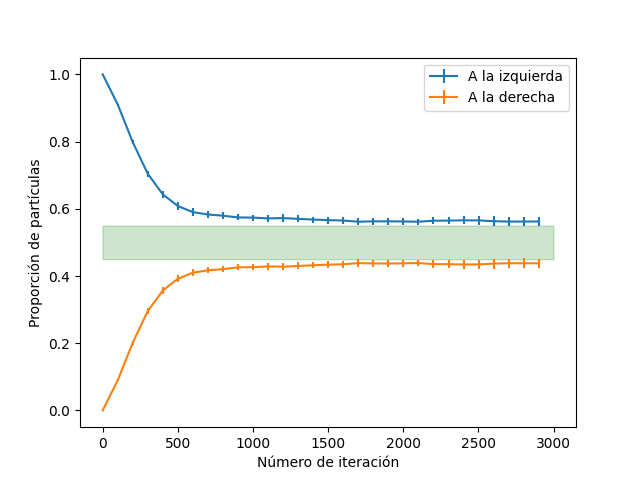
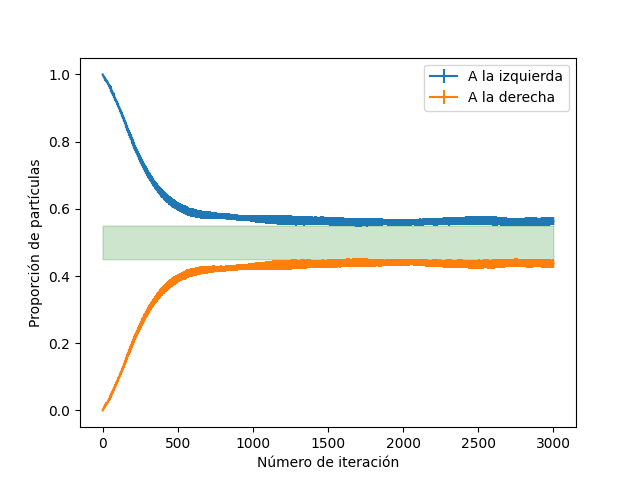
Changing equilibrium condition and particleVsTime graphs

diff --git a/tp2/out/particleNumberVariableWithErrorFirtsInEquilibrium.py b/tp2/out/particleNumberVariableWithErrorFirtsInEquilibrium.py
@@ -1,0 +1,36 @@
+import matplotlib.pyplot as plt
+import numpy as np
+import pandas as pd
+from pathlib import Path
+epsilon = 0.05
+particle_equilibrium_map = {}
+
+
+if __name__ == '__main__':
+    path = r'/home/shadad/Desktop/tp2pod/simulacion-de-sistemas/tp2/out'
+    for particle_number in [2000, 3000, 4000, 5000, 6000, 7000, 8000, 9000]:
+        particle_interval_upper = (particle_number / 2) + (particle_number * epsilon)
+        particle_interval_lower = (particle_number / 2) - (particle_number * epsilon)
+        regex = 'outputThirdLap_d50_n' + str(particle_number) + '_i*_aggregate.csv'
+        files = Path(path).glob(regex)
+        particle_equilibrium_map[particle_number] = []
+        for f in files:
+            dfs = pd.read_csv(f)
+            index = 0
+            for m in dfs["left_particle"]:
+                if particle_interval_upper >= float(m) >= particle_interval_lower:
+                    break
+                index += 1
+            particle_equilibrium_map[particle_number].append(index)
+    average = {}
+    for key, value in particle_equilibrium_map.items():
+        average[key] = np.mean(value), np.std(value)
+    gaps = list(average.keys())
+    equilibrium_index = list(average.values())
+    plt.errorbar(gaps, [v[0] for v in equilibrium_index], yerr=[[v[1] for v in equilibrium_index]], fmt='o', capsize=5)
+    plt.xlabel('Número inicial de particulas')
+    plt.ylabel('Número de iteraciones hasta equilibrio')
+    plt.yticks(np.arange(0, 3600, 300))
+    plt.savefig("VaryingNVsTimeWithErrorBarFirstInEquilibrium.PNG")
+
+

diff --git a/tp2/out/variableGapWithErrorBarFirstEquilibrium.py b/tp2/out/variableGapWithErrorBarFirstEquilibrium.py
@@ -1,0 +1,37 @@
+import matplotlib.pyplot as plt
+import numpy as np
+import pandas as pd
+from pathlib import Path
+epsilon = 0.05
+particle_number = 5000
+particle_interval_upper = (particle_number / 2) + (particle_number * epsilon)
+particle_interval_lower = (particle_number / 2) - (particle_number * epsilon)
+consecutive_equilibrium = 500
+gap_equilibrium_map = {}
+
+
+if __name__ == '__main__':
+    path = r'/home/shadad/Desktop/tp2pod/simulacion-de-sistemas/tp2/out'
+    for gap in [25, 50, 75, 100, 125, 150, 175, 200]:
+        regex = 'outputSecondLap_d' + str(gap) + '_n5000_i*_aggregate.csv'
+        files = Path(path).glob(regex)
+        gap_equilibrium_map[gap] = []
+        for f in files:
+            dfs = pd.read_csv(f)
+            index = 0
+            for m in dfs["left_particle"]:
+                if particle_interval_upper >= float(m) >= particle_interval_lower:
+                    break
+                index += 1
+            gap_equilibrium_map[gap].append(index)
+    average = {}
+    for key, value in gap_equilibrium_map.items():
+        average[key] = np.mean(value), np.std(value)
+    gaps = list(average.keys())
+    equilibrium_index = list(average.values())
+    plt.errorbar(gaps, [v[0] for v in equilibrium_index], yerr=[[v[1] for v in equilibrium_index]], fmt='o', capsize=5)
+    plt.xlabel('Tamaño del tabique (Cantidad de celdas)')
+    plt.ylabel('Numero de iteraciones hasta equilibrio')
+    plt.savefig("GapVsTimeWithErrorBarFirstEquilibrium.PNG")
+
+

diff --git a/tp2/out/FixedParticleVsTimeNVary.py b/tp2/out/FixedParticleVsTimeNVary.py
@@ -1,0 +1,37 @@
+import matplotlib.pyplot as plt
+import pandas as pd
+from pathlib import Path
+import numpy as np
+epsilon = 0.05
+
+
+if __name__ == '__main__':
+    current_index = 0
+    # equilibrium_point = [3000, 558, 466, 446, 436, 428, 424, 422]
+    path = r'/home/shadad/Desktop/tp2pod/simulacion-de-sistemas/tp2/out'
+    for particle_number in [2000, 3000, 4000, 5000, 6000, 7000, 8000, 9000]:
+        regex = 'outputThirdLap_d50_n' + str(particle_number) + '_i0_aggregate.csv'
+        files = Path(path).glob(regex)
+
+        upper = []
+        lower = []
+        for i in range(3000):
+            upper.append(0.5 + epsilon)
+            lower.append(0.5 - epsilon)
+
+        dfs = [pd.read_csv(f) for f in files]
+        df = dfs[0]
+        df_ratio = df / particle_number
+        df_ratio["left_particle"].plot(label="A la izquierda")
+        df_ratio["right_particle"].plot(label="A la derecha")
+
+        plt.xlabel('Número de iteración')
+        plt.xlim(0, 3000)
+        plt.xticks(np.arange(0, 3000, 300))
+        plt.ylabel('Proporción de partículas')
+        plt.fill_between([i for i in range(3000)], lower, upper, color='green', alpha=0.2)
+        # plt.axvline(x=equilibrium_point[current_index], linestyle='dashed', label='Iteración de equilibrio')
+        plt.legend()
+        plt.savefig("./plots/FixedThirdTimeRatioN_"+str(particle_number) + '.png')
+        plt.clf()
+        current_index += 1

diff --git a/tp2/out/FixedParticleVsTimeGapVary.py b/tp2/out/FixedParticleVsTimeGapVary.py
@@ -1,0 +1,38 @@
+import matplotlib.pyplot as plt
+import pandas as pd
+from pathlib import Path
+import numpy as np
+epsilon = 0.05
+particle_number = 5000
+
+
+if __name__ == '__main__':
+    current_index = 0
+    path = r'/home/shadad/Desktop/tp2pod/simulacion-de-sistemas/tp2/out'
+    for gap in [25, 50, 75, 100, 125, 150, 175, 200]:
+        regex = 'outputSecondLap_d' + str(gap) + '_n5000_i0_aggregate.csv'
+        files = Path(path).glob(regex)
+
+        upper = []
+        lower = []
+        for i in range(3000):
+            upper.append(0.5 + epsilon)
+            lower.append(0.5 - epsilon)
+
+        dfs = [pd.read_csv(f) for f in files]
+        df = dfs[0]
+        total = df["left_particle"] + df["right_particle"]
+        df_ratio = df / particle_number
+        df_ratio["left_particle"].plot(label="A la izquierda")
+        df_ratio["right_particle"].plot(label="A la derecha")
+
+        plt.xlabel('Número de iteración')
+        plt.xlim(0, 3000)
+        plt.xticks(np.arange(0, 3000, 300))
+        plt.ylabel('Proporción de partículas')
+        plt.fill_between([i for i in range(3000)], lower, upper, color='green', alpha=0.2)
+        # plt.axvline(x=equilibrium_point[current_index], linestyle='dashed', label='Iteración de equilibrio')
+        plt.legend()
+        plt.savefig("./plots/FixedTimeRatioD_"+str(gap) + '.png')
+        plt.clf()
+        current_index += 1

diff --git a/tp2/out/fixedParticleVsTime.py b/tp2/out/fixedParticleVsTime.py
@@ -1,0 +1,31 @@
+import matplotlib.pyplot as plt
+import pandas as pd
+from pathlib import Path
+epsilon = 0.05
+
+if __name__ == '__main__':
+
+    path = r'/home/shadad/Desktop/tp2pod/simulacion-de-sistemas/tp2/out'
+    for particle_number in [2000, 3000, 5000]:
+        regex = '*output_d50_n' + str(particle_number) + '_i1_aggregate.csv'
+        files = Path(path).glob(regex)
+        upper = []
+        lower = []
+        for i in range(3000):
+            upper.append(0.5 + epsilon)
+            lower.append(0.5 - epsilon)
+
+        dfs = [pd.read_csv(f) for f in files]
+        data_frame = dfs[0]
+        total_particle = data_frame["left_particle"] + data_frame["right_particle"]
+        left_particle_ratio = data_frame["left_particle"] / particle_number
+        right_particle_ratio = data_frame["right_particle"] / particle_number
+        left_particle_ratio.plot(label="A la izquierda")
+        right_particle_ratio.plot(label="A la derecha")
+        plt.xlabel('Número de iteración')
+        plt.ylabel('Proporción de partículas')
+        plt.fill_between([i for i in range(3000)], lower, upper, color='green', alpha=0.2)
+        plt.legend()
+        # plt.title("Proporción de partículas en cada lado respecto del tiempo")
+        plt.savefig("./plots/FixedTimeRatioN_"+str(particle_number) + '.png')
+        plt.clf()
